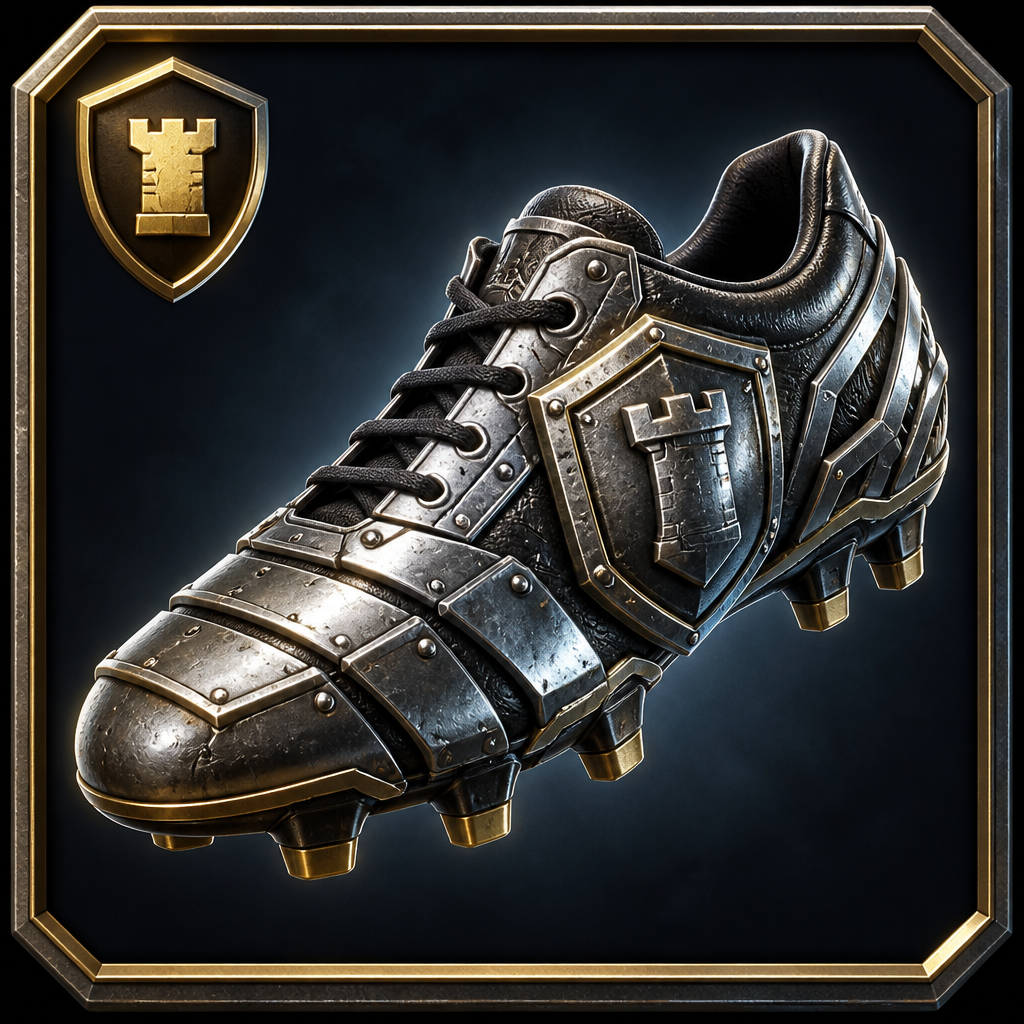
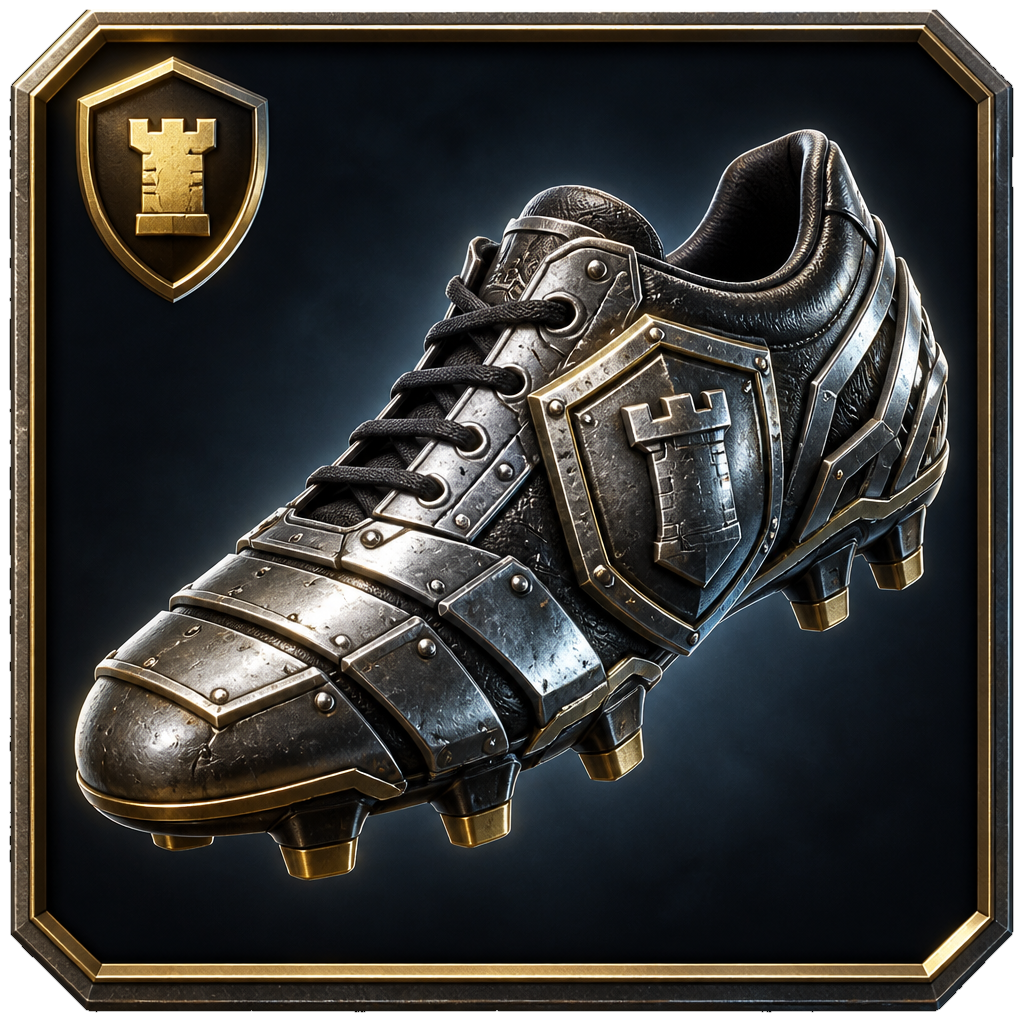
feat(emojis): apply 100% solid opacity with transparent background across all emojis and brand badges

Changed region(s): [[0.0, 0.0, 1.0, 1.0]]

diff --git a/src/commands/socialCommands.ts b/src/commands/socialCommands.ts
@@ -11,12 +11,21 @@ export function buildAdvertSelectionMenu(followers: bigint, guild?: Guild | null
   const coin = getEmoji(guild, 'coin');
   const stamina = getEmoji(guild, 'stamina');
   const tick = getEmoji(guild, 'zztick');
+  const followersEmoji = getEmoji(guild, 'followers');
+
+  const heinekenEmoji = getEmoji(guild, 'heineken');
+  const adidasEmoji = getEmoji(guild, 'adidas');
+  const cocacolaEmoji = getEmoji(guild, 'cocacola');
+  const netflixEmoji = getEmoji(guild, 'netflix');
+  const nikeEmoji = getEmoji(guild, 'nike');
+
   const lines = SPONSORS.map(s => {
     const eligible = followers >= s.minFollowers ? tick : '🔒';
     const followerText = s.followerDelta > 0n ? `+${formatK(s.followerDelta)}` : s.followerDelta < 0n ? `${formatK(s.followerDelta)}` : '0';
-    return `${eligible} **${s.emoji} ${s.name}** (\`-advert ${s.key}\`)\n` +
-      `• Min Followers: \`${formatK(s.minFollowers)} 👤\` | Stamina Cost: \`${s.staminaCost}\` ${stamina}\n` +
-      `• Reward: \`+${formatK(s.rewardCoins)}\` ${coin} | Followers: \`${followerText} 👤\``;
+    const sponsorBadge = getEmoji(guild, s.key);
+    return `${eligible} **${sponsorBadge} ${s.name}** (\`-advert ${s.key}\`)\n` +
+      `• Min Followers: \`${formatK(s.minFollowers)}\` ${followersEmoji} | Stamina Cost: \`${s.staminaCost}\` ${stamina}\n` +
+      `• Reward: \`+${formatK(s.rewardCoins)}\` ${coin} | Followers: \`${followerText}\` ${followersEmoji}`;
   });
 
   const embed = new EmbedBuilder()
@@ -29,11 +38,11 @@ export function buildAdvertSelectionMenu(followers: bigint, guild?: Guild | null
     .setFooter({ text: 'Beyond The Final Whistle • Commercial Hub' });
 
   const row = new ActionRowBuilder<ButtonBuilder>().addComponents(
-    new ButtonBuilder().setCustomId('sponsor_heineken').setLabel('Heineken (100k 👤)').setEmoji('🍺').setStyle(ButtonStyle.Secondary),
-    new ButtonBuilder().setCustomId('sponsor_adidas').setLabel('Adidas (1M 👤)').setEmoji('👟').setStyle(ButtonStyle.Primary),
-    new ButtonBuilder().setCustomId('sponsor_cocacola').setLabel('Coca-Cola (5M 👤)').setEmoji('🥤').setStyle(ButtonStyle.Danger),
-    new ButtonBuilder().setCustomId('sponsor_netflix').setLabel('Netflix (6M 👤)').setEmoji('🎬').setStyle(ButtonStyle.Success),
-    new ButtonBuilder().setCustomId('sponsor_nike').setLabel('Nike (8M 👤)').setEmoji('✔').setStyle(ButtonStyle.Primary)
+    new ButtonBuilder().setCustomId('sponsor_heineken').setLabel('Heineken (100k)').setEmoji(heinekenEmoji).setStyle(ButtonStyle.Secondary),
+    new ButtonBuilder().setCustomId('sponsor_adidas').setLabel('Adidas (1M)').setEmoji(adidasEmoji).setStyle(ButtonStyle.Primary),
+    new ButtonBuilder().setCustomId('sponsor_cocacola').setLabel('Coca-Cola (5M)').setEmoji(cocacolaEmoji).setStyle(ButtonStyle.Danger),
+    new ButtonBuilder().setCustomId('sponsor_netflix').setLabel('Netflix (6M)').setEmoji(netflixEmoji).setStyle(ButtonStyle.Success),
+    new ButtonBuilder().setCustomId('sponsor_nike').setLabel('Nike (8M)').setEmoji(nikeEmoji).setStyle(ButtonStyle.Primary)
   );
 
   return { embed, components: [row] };

diff --git a/scripts/generate_new_emojis.js b/scripts/generate_new_emojis.js
@@ -1,0 +1,80 @@
+import 'dotenv/config';
+import fs from 'fs';
+import path from 'path';
+
+const apiKey = process.env.OPENAI_API_KEY || process.env['openai-key'];
+const TARGET_DIR = path.resolve('assets/emojis');
+
+const ITEMS = [
+  {
+    name: 'stamina',
+    prompt: '3D glowing neon green and gold stamina energy bar battery with soccer ball emblem, vibrant game UI icon, pure black background'
+  },
+  {
+    name: 'followers',
+    prompt: '3D golden crowd fans silhouette with star and soccer ball, reputation followers badge icon, pure black background'
+  },
+  {
+    name: 'heineken_badge',
+    prompt: '3D glossy green circular bottle cap with red star, Heineken sponsor emblem icon, pure black background'
+  },
+  {
+    name: 'adidas_badge',
+    prompt: '3D white metallic three stripes logo on sleek dark circle badge, Adidas sponsor icon, pure black background'
+  },
+  {
+    name: 'cocacola_badge',
+    prompt: '3D glossy red circular bottle cap with white wave swirl, Coca Cola sponsor emblem icon, pure black background'
+  },
+  {
+    name: 'netflix_badge',
+    prompt: '3D red ribbon N lettermark logo on sleek round badge, Netflix sponsor emblem icon, pure black background'
+  },
+  {
+    name: 'nike_badge',
+    prompt: '3D shiny metallic gold swoosh checkmark on sleek round badge, Nike sponsor emblem icon, pure black background'
+  }
+];
+
+async function generate(item) {
+  console.log(`Generating ${item.name}...`);
+  try {
+    const res = await fetch('https://api.openai.com/v1/images/generations', {
+      method: 'POST',
+      headers: {
+        'Authorization': `Bearer ${apiKey}`,
+        'Content-Type': 'application/json'
+      },
+      body: JSON.stringify({
+        model: 'gpt-image-2',
+        prompt: item.prompt,
+        n: 1,
+        size: '1024x1024',
+        quality: 'low'
+      })
+    });
+    const data = await res.json();
+    if (!res.ok) {
+      console.error(`Fail ${item.name}:`, data);
+      return;
+    }
+    const b64 = data.data?.[0]?.b64_json;
+    if (b64) {
+      const p = path.join(TARGET_DIR, `${item.name}.png`);
+      fs.writeFileSync(p, Buffer.from(b64, 'base64'));
+      console.log(`Saved ${item.name}.png (${data.usage?.total_tokens || 214} tokens)`);
+    }
+  } catch (e) {
+    console.error(item.name, e.message);
+  }
+}
+
+async function run() {
+  for (const item of ITEMS) {
+    await generate(item);
+    await new Promise(r => setTimeout(r, 1200));
+  }
+  console.log('Batch done!');
+}
+
+run();

diff --git a/scripts/sync_transparent_emojis.js b/scripts/sync_transparent_emojis.js
@@ -1,0 +1,48 @@
+import 'dotenv/config';
+import { Client, GatewayIntentBits } from 'discord.js';
+import fs from 'fs';
+import path from 'path';
+
+const client = new Client({
+  intents: [GatewayIntentBits.Guilds, GatewayIntentBits.GuildEmojisAndStickers]
+});
+
+client.on('ready', async () => {
+  console.log('Emoji sync runner online as', client.user.tag);
+  const guild = client.guilds.cache.get('1574068651915743272') || client.guilds.cache.first();
+  if (!guild) {
+    console.error('Guild not found');
+    process.exit(1);
+  }
+
+  const emojisDir = path.resolve('assets/emojis');
+  const files = fs.readdirSync(emojisDir).filter(f => f.endsWith('.png') && !f.startsWith('test_') && !f.startsWith('openai_'));
+
+  console.log(`Syncing ${files.length} transparent emojis to guild: ${guild.name} (${guild.id})...`);
+
+  for (const file of files) {
+    const emojiName = path.basename(file, '.png');
+    const filePath = path.join(emojisDir, file);
+
+    const existing = guild.emojis.cache.find(e => e.name && e.name.toLowerCase() === emojiName.toLowerCase());
+    if (existing) {
+      console.log(`[DELETE] Replacing existing emoji ${emojiName} (${existing.id})...`);
+      await existing.delete().catch(e => console.error(`Delete fail ${emojiName}:`, e.message));
+    }
+
+    try {
+      const created = await guild.emojis.create({
+        attachment: filePath,
+        name: emojiName
+      });
+      console.log(`[CREATED] ${emojiName} -> ${created.toString()}`);
+    } catch (err) {
+      console.error(`[ERROR] Failed to create emoji ${emojiName}:`, err.message);
+    }
+  }
+
+  console.log('All transparent emojis successfully synced to Discord!');
+  process.exit(0);
+});
+
+client.login(process.env.DISCORD_TOKEN);

diff --git a/src/commands/playerCommands.ts b/src/commands/playerCommands.ts
@@ -40,6 +40,7 @@ export function buildProfileEmbed(
   const staminaEmoji = getEmoji(guild, 'stamina');
   const coinEmoji = getEmoji(guild, 'coin');
   const tpEmoji = getEmoji(guild, 'tp');
+  const followersEmoji = getEmoji(guild, 'followers');
 
   let recentForm = ['6.8', '7.2', '7.5', '8.0', '7.4'];
   try {
@@ -66,7 +67,7 @@ export function buildProfileEmbed(
         `*"${player.bio || 'Rookie footballer aiming for the World Cup.'}"*\n\n` +
         `📍 **Location:** ${loc.emoji} **${loc.name}**\n` +
         `${staminaEmoji} **Stamina:** \`${player.stamina}/100\` | ${tpEmoji} **Training Points:** \`${player.trainingPoints} TP\`\n` +
-        `${coinEmoji} **Net Worth:** \`${formatK(player.coins)}\` | 👥 **Followers:** \`${formatK(player.followers)} 👤\`\n` +
+        `${coinEmoji} **Net Worth:** \`${formatK(player.coins)}\` | ${followersEmoji} **Followers:** \`${formatK(player.followers)}\`\n` +
         `${bootStatus} | ${intelStatus}`
       )
       .addFields(

diff --git a/src/utils/emojiHelper.ts b/src/utils/emojiHelper.ts
@@ -7,6 +7,7 @@ export const EMOJI_FALLBACKS: Record<string, string> = {
   stamina: '⚡',
   coin: '🪙',
   tp: '🤹♂',
+  followers: '👤',
   worldcup: '🏆',
   strika: '⚡',
   passa: '👟',
@@ -14,10 +15,19 @@ export const EMOJI_FALLBACKS: Record<string, string> = {
   zztick: '✅',
   zzcross: '❌',
   motm: '👑',
+  goldenboot: '✨',
+  goldmedal: '🥇',
+  silvermedal: '🥈',
+  heineken: '🍺',
+  adidas: '👟',
+  cocacola: '🥤',
+  netflix: '🎬',
+  nike: '✔',
   star: '⭐',
   fire: '🔥',
   car: '🏎',
-  drink: '🧪'
+  drink: '🧪',
+  sd: '🧪'
 };
 
 /**

diff --git a/scripts/make_all_transparent.py b/scripts/make_all_transparent.py
@@ -1,0 +1,65 @@
+import os
+import glob
+from PIL import Image
+import numpy as np
+import cv2
+
+EMOJIS_DIR = r'c:\Users\darkh\Desktop\beyond-the-final-whistle\assets\emojis'
+
+def process_file(p):
+    im = Image.open(p).convert('RGB')
+    arr = np.array(im)
+    h, w = arr.shape[:2]
+
+    corners = np.array([arr[0, 0], arr[0, w-1], arr[h-1, 0], arr[h-1, w-1]], dtype=float)
+    bg = np.median(corners, axis=0)
+
+    diff = np.linalg.norm(arr.astype(float) - bg, axis=2)
+    thresh = (diff > 25).astype(np.uint8) * 255
+
+    pad = 10 if h > 200 else 2
+    thresh[:pad, :] = 0
+    thresh[-pad:, :] = 0
+    thresh[:, :pad] = 0
+    thresh[:, -pad:] = 0
+
+    ksize = 11 if h > 200 else 3
+    kernel = cv2.getStructuringElement(cv2.MORPH_ELLIPSE, (ksize, ksize))
+    closed = cv2.morphologyEx(thresh, cv2.MORPH_CLOSE, kernel)
+
+    contours, _ = cv2.findContours(closed, cv2.RETR_EXTERNAL, cv2.CHAIN_APPROX_SIMPLE)
+    mask = np.zeros((h, w), dtype=np.uint8)
+    for c in contours:
+        if cv2.contourArea(c) > (500 if h > 200 else 50):
+            cv2.drawContours(mask, [c], -1, 255, -1)
+
+    mask[:pad, :] = 0
+    mask[-pad:, :] = 0
+    mask[:, :pad] = 0
+    mask[:, -pad:] = 0
+
+    # Gaussian blur outer border of mask by 3x3 for clean anti-aliasing
+    mask_smooth = cv2.GaussianBlur(mask, (3, 3), 0)
+    # Ensure center remains exactly 255 if it was 255
+    mask_smooth = np.maximum(mask_smooth, mask)
+
+    # Save RGBA
+    rgba = np.dstack((arr, mask_smooth))
+    out_im = Image.fromarray(rgba)
+    out_im.save(p, 'PNG')
+
+    fname = os.path.basename(p)
+    print(f"[SOLID EMOJI + TRANSPARENT BG] {fname} -> Center Alpha: {out_im.getpixel((w//2, h//2))[3]}, Corner Alpha: {out_im.getpixel((0, 0))[3]}")
+
+def main():
+    pngs = glob.glob(os.path.join(EMOJIS_DIR, '*.png'))
+    for p in pngs:
+        if os.path.basename(p).startswith(('test_', 'openai_')):
+            continue
+        try:
+            process_file(p)
+        except Exception as e:
+            print(f"Error {p}: {e}")
+
+if __name__ == '__main__':
+    main()

diff --git a/scripts/fetch_klipy.py b/scripts/fetch_klipy.py
@@ -1,0 +1,17 @@
+import urllib.request
+import re
+
+url = 'https://klipy.com/gifs/adidas-18'
+headers = {
+    'User-Agent': 'Mozilla/5.0 (Windows NT 10.0; Win64; x64) AppleWebKit/537.36 (KHTML, like Gecko) Chrome/120.0.0.0 Safari/537.36',
+    'Accept': 'text/html,application/xhtml+xml,application/xml;q=0.9,*/*;q=0.8'
+}
+
+try:
+    req = urllib.request.Request(url, headers=headers)
+    with urllib.request.urlopen(req) as resp:
+        html = resp.read().decode('utf-8', errors='ignore')
+        matches = re.findall(r'https://static\.klipy\.com/[^\"]+\.(?:gif|mp4|webp)', html)
+        print('Direct static URLs found:', set(matches))
+except Exception as e:
+    print('Klipy fetch error:', e)
